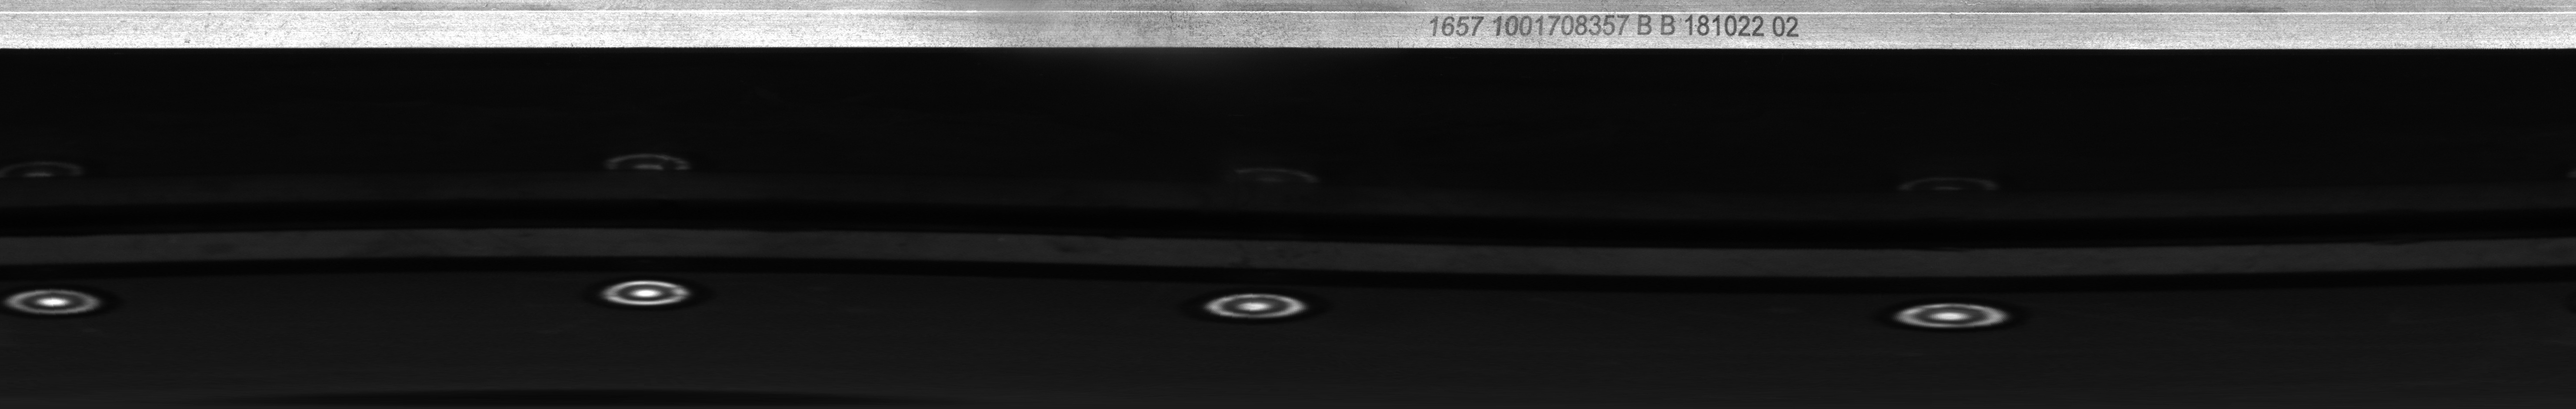
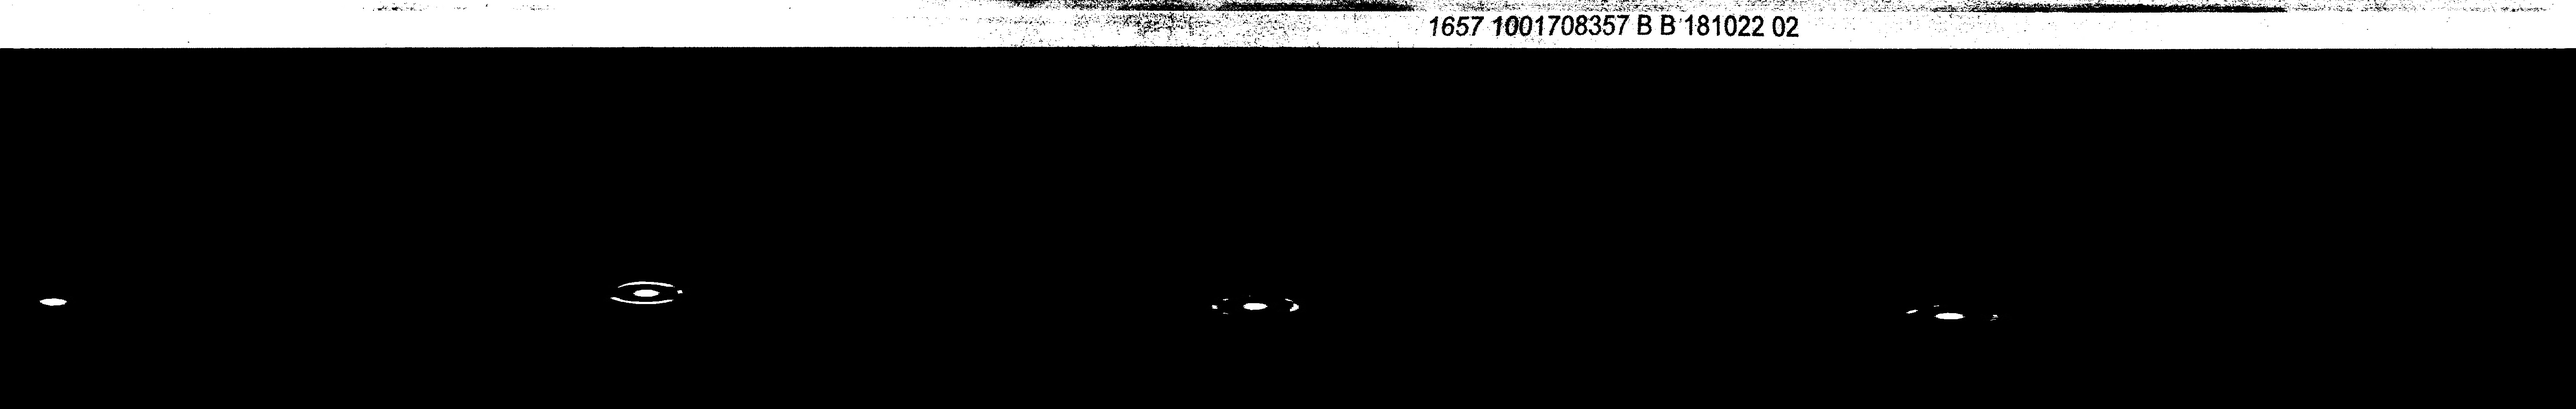
宿舍电脑，修改图像全景展开

diff --git a/pyQt5/检查圆心求出半径/全景展开.py b/pyQt5/检查圆心求出半径/全景展开.py
@@ -19,7 +19,7 @@ def resizeSquare(srcimg):
     cv2.imshow('binary',binary)
 
 
-img = cv2.imread("imgSave.jpg")
+img = cv2.imread("unFloodAfterBinary.jpg")
 # img=cv2.pyrDown(img)
 # img=cv2.pyrDown(img)
 resizeSquare(img)
@@ -28,12 +28,13 @@ cv2.imshow("panoramagram", img)
 x0 = img.shape[0] // 2
 y0 = img.shape[1] // 2
 # 通过圆形区域半径构造展开后的图像
-unwrapped_height = radius = img.shape[0] // 2
-unwrapped_width = int(2 * math.pi * radius)
+unwrapped_height = radius = img.shape[0] // 2#展开后的高
+unwrapped_width = int(2 * math.pi * radius)#展开后的宽
 unwrapped_img = np.zeros((unwrapped_height, unwrapped_width, 3), dtype="u1")
 except_count = 0
 for j in range(unwrapped_width):
     theta = -2 * math.pi * (j / unwrapped_width)  # 1. start position such as "+ math.pi"
+    # theta=theta+0.75*math.pi
     for i in range(unwrapped_height):
         unwrapped_radius = radius - i  # 2. don't forget
         x = unwrapped_radius * math.cos(theta) + x0  # 3. "sin" is clockwise but "cos" is anticlockwise

diff --git a/pyQt5/检查圆心求出半径/图片裁剪拼接.py b/pyQt5/检查圆心求出半径/图片裁剪拼接.py
@@ -1,0 +1,14 @@
+import cv2
+
+src=cv2.imread('bestimg.jpg',cv2.IMREAD_GRAYSCALE)
+cv2.imshow('grayscale',src)
+h,w=src.shape
+src1=src[:,0:300]
+src2=src[:,300:w]
+cv2.imshow('src1',src1)
+cv2.imshow('src2',src2)
+
+
+
+cv2.waitKey()
+cv2.destroyAllWindows()
